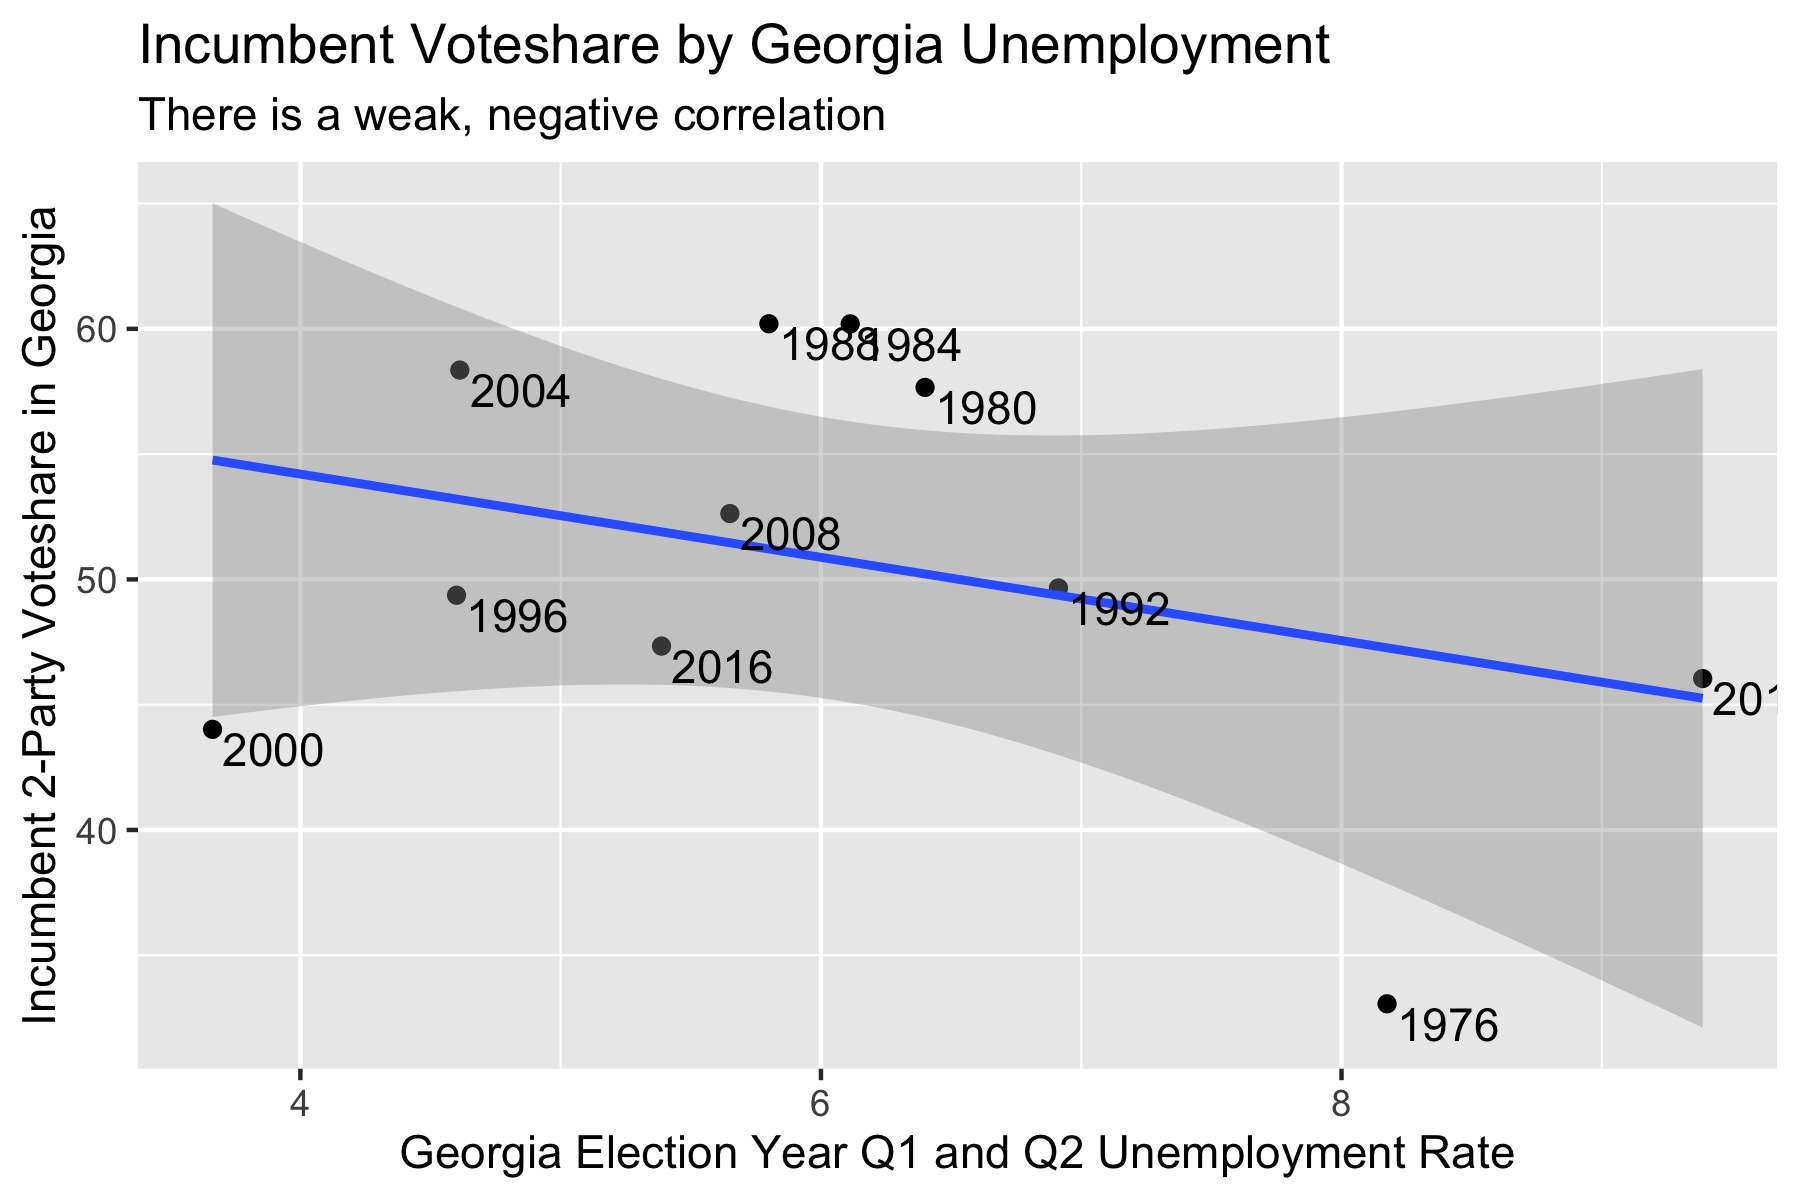
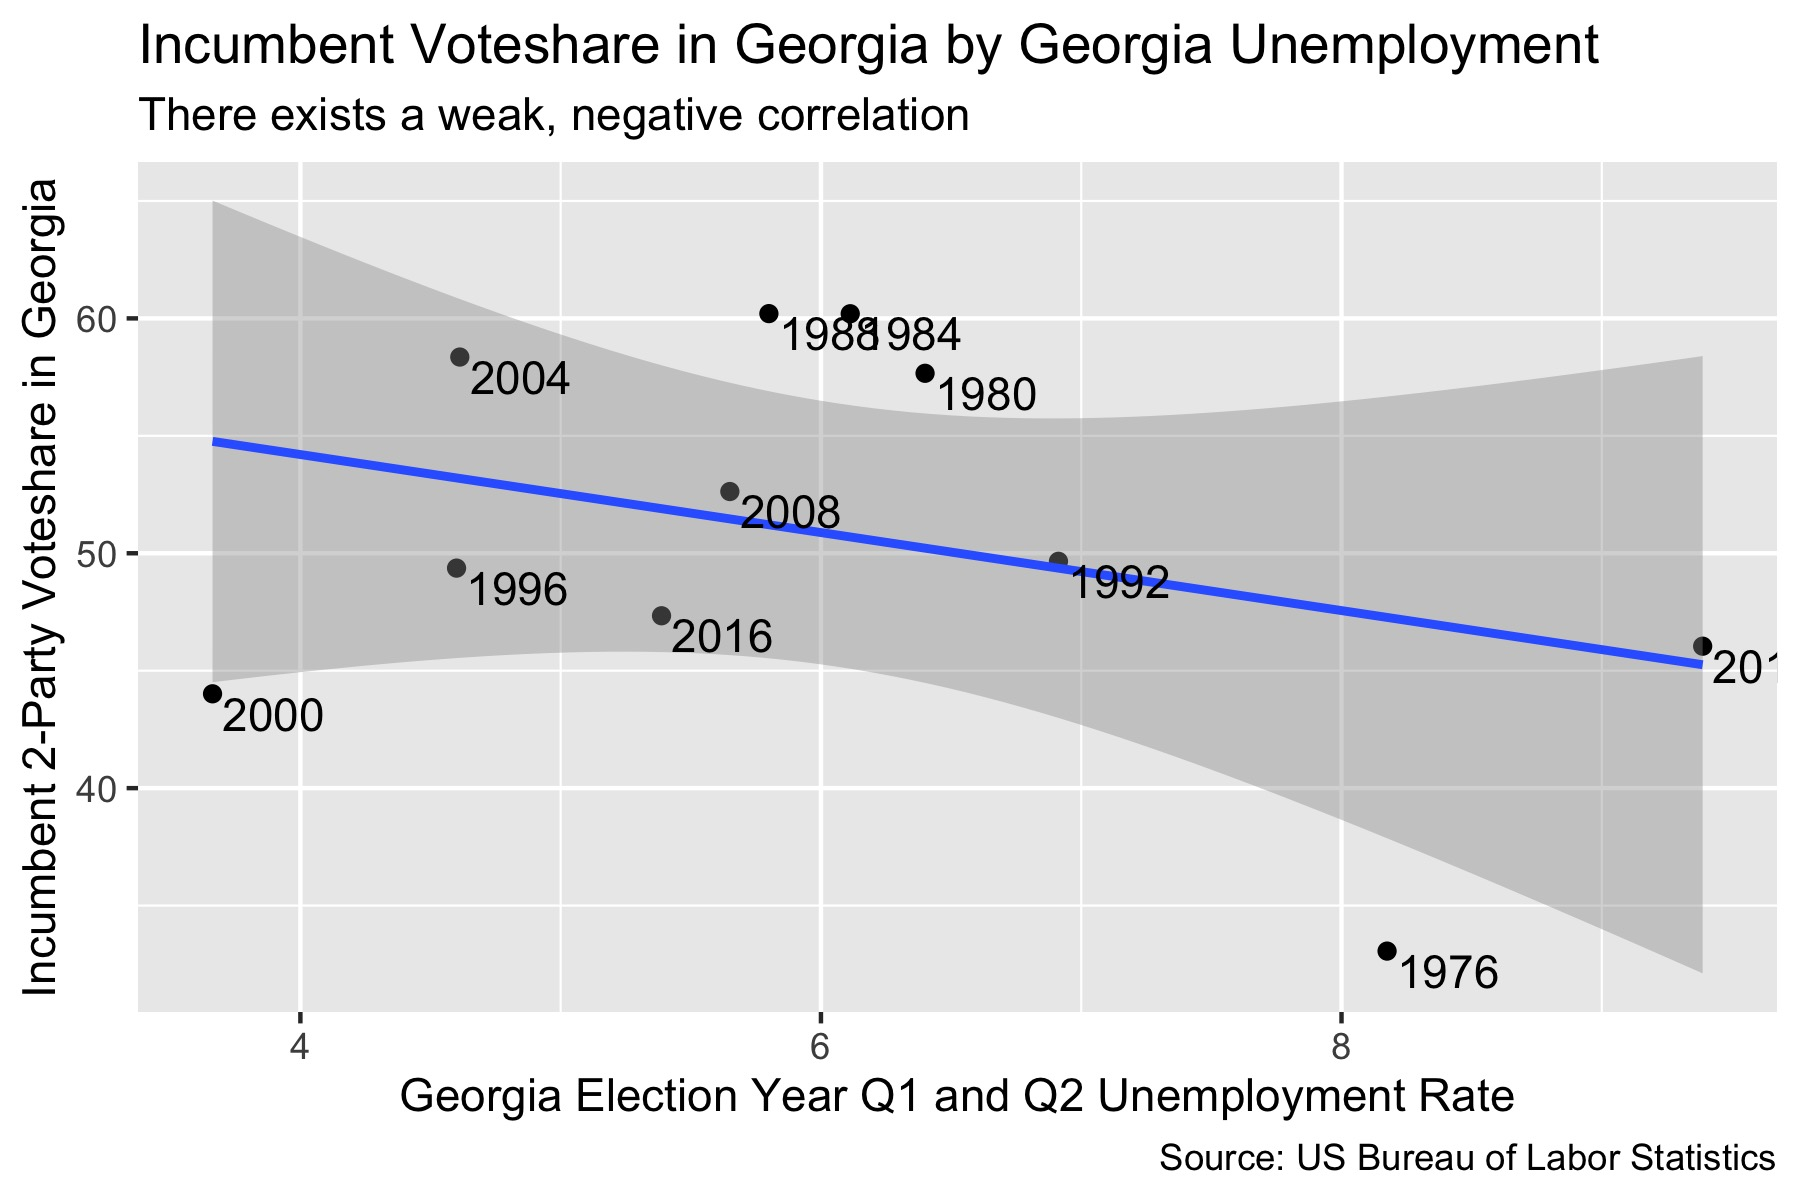
Finished blog2(I think)

diff --git a/posts/blog2.md b/posts/blog2.md
@@ -16,21 +16,21 @@ One form of retrospective voting is voting based on the economy, as an individua
 
 When assessing unemployment, recent memory wins in the minds of voters. Rather than assessing overall changes in the economy during all four years of the incumbent party's leadership, voters care more about the [last two quarters](https://journals.sagepub.com/doi/abs/10.1177/1532673X01293008) before the election (Q1 and Q2 of election year). This is known as the [end-heuristic](https://hollis.harvard.edu/primo-explore/fulldisplay?docid=TN_cdi_gale_infotracacademiconefile_A354446646&context=PC&vid=HVD2&search_scope=everything&tab=everything&lang=en_US): either subconsciously or for lack of ability to assess long-term economic information, voters substitute a full four-year reflection on the economy for its most recent developments. 
 
-Let's return to our guiding question: do voters in Georgia care more about their state or national economy when choosing who they vote for? To measure this, we'll model the both the unemployment rate of a specific state, Georgia, and the national unemployment rate against the two-party vote share for the incumbent presidential party in Georgia. We will use the average unemployment rate during the first two quarters of the election year as our predictor for both plots because of what we know about voters' tendency to disproportionately weigh the final two quarters of the economy over the last four years. 
+Let's return to our guiding question: do voters in Georgia care more about their state or national economy when choosing who they vote for? To measure this, we'll model the both the unemployment rate of Georgia and the national unemployment rate against the two-party vote share for the incumbent presidential party in Georgia. We will use the average unemployment rate during the first two quarters of the election year as our predictor for both plots because of what we know about voters' tendency to disproportionately weigh the final two quarters of the economy over the last four years. 
 
 ### State vs. national unemployment
 
 ![](../figures/usunemployed.jpg)
 
-When modeling the national unemployment rate against Georgia's voteshare for the incumbent presidential party, we can observe a weak, negative correlation. There is a correlation of -0.54, meaning that with each one percent increase in national unemployment, the incumbent party voteshare decreases by -0.54%. This negative correlation is intuitive: if the unemployment rates are higher at the end of a presidential term, voters in Georgia (and likely everywhere) would be less inclined to vote for that candidate's party again. However, this is a very weak correlation, with an R-squared value of 0.008. We can see if voters care more about state-level unemployment (and if there is a stronger correlation between the two) by replacing the national unemployment rate with Georgia's own unemployment rate as the predictor variable. 
+When modeling the national unemployment rate against Georgia's voteshare for the incumbent presidential party, we can observe a weak, negative correlation. There is a correlation of -0.54, meaning that with each 1% increase in national unemployment, the incumbent party's voteshare decreases by -0.54%. This negative correlation is intuitive: if national unemployment rates are higher at the end of a presidential term, voters in Georgia would be less inclined to vote for that candidate's party again. However, this is a very weak correlation, with an R-squared value of 0.008. We can see if voters care more about state-level unemployment (and if there is a stronger correlation between the two) by replacing the national unemployment rate with Georgia's own unemployment rate as the predictor variable. 
 
 ![](../figures/GAunemployed.jpg)
 
-This correlation appears to be slightly stronger and slightly more negative. There is a correlation of -1.67, meaning that with each one percent increase in Georgia's unemployment rate, the incumbent party voteshare decreases by -1.67%. For the same reason as before, this negative relationship makes sense. This model has a R-squared value of 0.11, which is notably stronger than the last relationship but still quite weak. 
+This correlation appears to be slightly stronger and slightly more negative. There is a correlation of -1.67, meaning that with each 1% increase in Georgia's unemployment rate, the incumbent party voteshare decreases by -1.67%. For the same reason as before, this negative relationship makes sense. This model has a R-squared value of 0.11, which is notably stronger than the last relationship but still quite weak. 
 
 ### The effect of unemployment on voting by party
 
-Perhaps the effect of unemployment on voting is correlated more strongly with which party is the incumbent. Let's graph the same data, but run two linear regressions: one for elections in which the Republican party was incumbent and one for elections in which the Democratic party was incumbent. 
+Perhaps the effect of unemployment on voting is correlated more strongly with a certain party as the incumbent. Let's graph the same data, but run two linear regressions: one for elections in which the Republican party was incumbent and one for elections in which the Democratic party was incumbent. 
 
 ![](../figures/usunemployed_party.jpg)
 
@@ -40,9 +40,9 @@ Let's see how these relationships change when we replace national unemployment w
 
 ![](../figures/GAunemployed_party.jpg)
 
-Once again, the correlation for Democrats is no longer negative. However, the correlation for Republicans is even stronger and more negative. For each one percent increase in Georgia's unemployment rate, the incumbent Republican candidate's voteshare in Georgia decreases by 7.23%. This relationship has a moderately strong R-squared of 0.72, notably stronger than any of the previous relationships. 
+Once again, the correlation for Democrats is no longer negative. However, the correlation for Republicans is even stronger and more negative. For each 1% increase in Georgia's unemployment rate, the incumbent Republican candidate's voteshare in Georgia decreases by 7.23%. This relationship has a moderately strong R-squared of 0.72, notably stronger than any of the previous relationships. 
 
-Both of these graphs aligns with an interesting finding in [Burden and Wichowsky (2014)](https://www.jstor.org/stable/10.1017/s0022381614000437): that Republican incumbents are more susceptible to a loss of votes due to high unemployment rates.
+Both of these graphs align with an interesting finding in [Burden and Wichowsky (2014)](https://www.jstor.org/stable/10.1017/s0022381614000437): that Republican incumbents are more susceptible to a loss of votes due to high unemployment rates, while Democratic incumbents are not susceptible at all.
 
 
 ### Predicting 2020
@@ -53,18 +53,18 @@ The formula for the trend line between unemployment in Georgia and Georgian vote
 ((Georgian voteshare for Republican incumbents) = 97.3 + (Georgian Unemployment Rate) * -7.23)
 ```
 
-The intercept, 97.3, represents Georgian voteshare for Republican incumbents if the unemployment rate was 0 during the final two terms of the previous Republican president's term. Alone, this number is counterfactual, as unemployment rates in any state never hit 0 and no state votes so overwhelmingly for one party in a presidential election. As stated before, -7.23, the slope of the trend line, is how much the Republican voteshare in Georgia decreases for each percentage point increase of unemployment. Using this information, we can predict what President Trump's voteshare will be in the 2020 election. 
+The intercept, 97.3, represents Georgian voteshare for Republican incumbents if the unemployment rate was 0 during the final two quarters of the previous Republican president's term. Alone, this number is counterfactual, as unemployment rates in any state never hit 0 and no state votes so overwhelmingly for one party in a presidential election. As stated before, -7.23, the slope of the trend line, is how much the Republican voteshare in Georgia decreases for each percentage point increase of unemployment. Using this information, we can predict what President Trump's voteshare will be in the 2020 election. 
 
 ```
 predict(ga_rep_model, newdata = newdata, interval = "prediction")
 ```
 
-The average unemployment rate in the first two quarters of 2020 in Georgia was 6.7%, heightened by the wave of unemployment following the COVID-19 pandemic. Using our model and the predict() function to generate a prediction interval, we can guess that Trump's voteshare in Georgia will be 48.8% with a lower boundary of 30.1% and an upper boundary of 67.5%.
+The average unemployment rate in the first two quarters of 2020 in Georgia was 6.7%, heightened by the wave of unemployment following the COVID-19 pandemic. Using our model and the predict() function to generate a prediction interval, we can guess that Trump's voteshare in Georgia will be 48.8% with a lower boundary of 30.1% and an upper boundary of 67.5%. 
 
-Particularly with this election, we must be careful about using old data to predict our new outcome, as COVID-19 has yielded unprecedented changes to our economy that were not present in previous elections.
+48.8% is a reasonable prediction for Trump's voteshare in Georgia, as Georgia is a swing state and voters may respond poorly to recent changes in the economy under his leadership. However, particularly with this election, we must be careful about using old data to predict our new outcome, as COVID-19 has yielded unprecedented changes to our economy that were not present in previous elections.
 
 ### Conclusions and Model Limitations
 
 Based on these models, it seems that voters in Georgia care more about state-level unemployment than national unemployment when deciding whether or not to vote for the incumbent party, but only when the incumbent party is Republican. This is in keeping with the findings of [Burden and Wichowsky (2014)](https://www.jstor.org/stable/10.1017/s0022381614000437), which concludes that Republicans incumbents have more to lose from high unemployment rates during their term in office. 
 
-There are several limitations to this model. The first is that these findings cannot be generalized to different states. These models were generated using data on Georgian voters, therefore, while it may be true that several other states experience a similar trend, these analysis must be run on another state's voting data to draw this conclusion. Additionally, most of the relationships in these models had weak R-squared values, with the exception of modeling Georgian unemployment against Republican incumbent vote share. Thus, these findings should be taken cautiously. Individuals rarely vote solely on unemployment rates: these models can be improved and the role of unemployment in voting can be better understood by constructing a more comprehensive model with more predictors.
+There are several limitations to this model. The first is that these findings cannot be generalized to different states. These models were generated using data on Georgian voters, so while it may be true that several other states experience a similar trend, these analyses must be run on another state's voting data to draw this conclusion. Additionally, most of the relationships in these models had weak R-squared values, with the exception of modeling Georgian unemployment against Republican incumbent vote share. Thus, these findings should be taken cautiously. Individuals rarely vote solely on unemployment rates: these models can be improved and the role of unemployment in voting can be better understood by constructing a more comprehensive model with more predictors.
